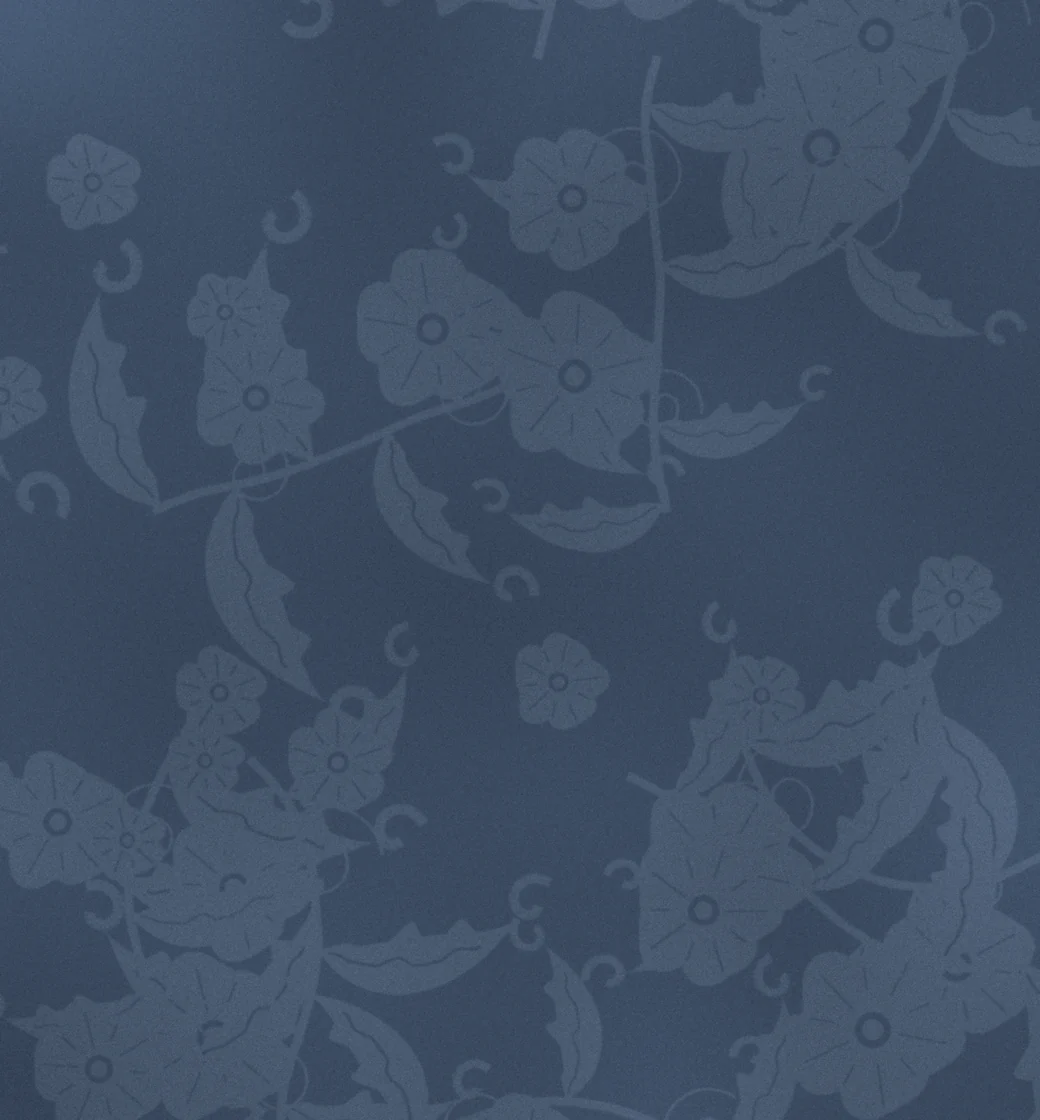
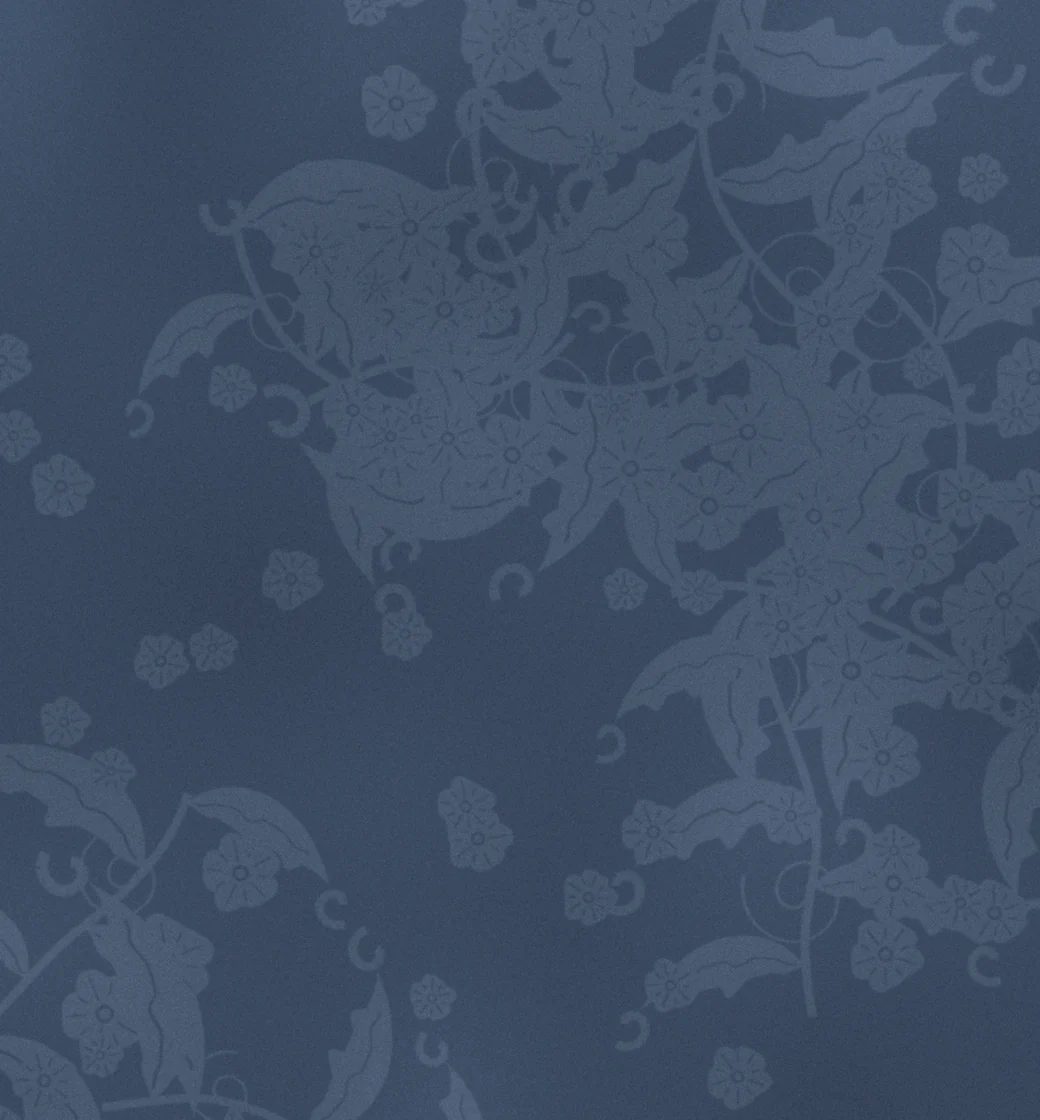
アルケルケ: ヒストリカルの彫りを鮮明に・盤線も彫り込み・擦れとざらつき、モダンの花を小さく多く
Claude-Session: https://claude.ai/code/session_01EiWRAYzNyyFMGgYmiTnvUY

diff --git a/alquerque/index.html b/alquerque/index.html
@@ -1211,14 +1211,14 @@ body.hb-on .hb .controls.hb-menu{display:flex!important}
   html:is([data-rule=dimy],[data-rule=telo],[data-rule=alq]) body .app > .rvbox{grid-area:bx;height:auto;max-height:40vh}
 }
 /* ---- Alquerque: historical (carved wood), modern (damask cloth), chalk (slate) — tools/gen_rugs.py */
-html[data-bd=carved]{--wimg:url(img/rug-carved.webp?v=4);--edge:#3a2414;--wdl:#2b190c}
-html[data-bd=damask]{--wimg:url(img/rug-damask.webp?v=4);--edge:#26323f;--wdl:#eef2f6}
+html[data-bd=carved]{--wimg:url(img/rug-carved.webp?v=5);--edge:#3a2414;--wdl:#2b190c}
+html[data-bd=damask]{--wimg:url(img/rug-damask.webp?v=5);--edge:#26323f;--wdl:#eef2f6}
 html[data-bd=chalk]{--wimg:url(img/rug-chalk.webp?v=1);--edge:#1c1d1e;--wdl:#ecebe6}
 html:is([data-bd=carved],[data-bd=damask],[data-bd=chalk]) .frame{background:var(--wimg) 0 0 / 100% 100%;border-radius:calc(var(--cell) * .1);
   box-shadow:0 calc(var(--cell) * .05) 0 var(--edge),0 40px 70px -26px rgba(0,0,0,.85)}
 html:is([data-bd=carved],[data-bd=damask],[data-bd=chalk]) .lines{filter:none}
-html[data-bd=carved] .lines .ln{stroke:#2b190c;stroke-width:.035;opacity:.9}
-html[data-bd=carved] .lines .pt{fill:#2b190c;opacity:.85;r:.06} html[data-bd=carved] .lines .pt.st{r:.08}
+html[data-bd=carved] .lines .ln{stroke:#2b190c;stroke-width:.035;opacity:0}
+html[data-bd=carved] .lines .pt{fill:#2b190c;opacity:0}
 html[data-bd=carved] .lines .num{fill:#2b190c;opacity:.75}
 html[data-bd=carved] .reserve{background:rgba(40,22,10,.35);box-shadow:inset 0 2px 5px rgba(0,0,0,.5),inset 0 -1px 0 rgba(255,230,190,.15)}
 html[data-bd=damask] .lines .ln{stroke:#eef2f6;stroke-width:.03;opacity:.92}
@@ -1612,7 +1612,7 @@ html[data-pcs=felt] .pdisc.p1{background:#e6dcc4} html[data-pcs=felt] .pdisc.p2{
 window.GAME = { id: 'alquerque', name: 'Alquerque', base: 'alq', rules: ['alq'], store: 'aicoding-alquerque', img: '../images/atlas/alquerque.webp',
   engine: '../fanorona/engine.js?v=fb2', bd: 'medallion', pcs: 'brass',
   bds: ['medallion', 'kilim', 'patch', 'chalk', 'carved', 'damask', 'abstract', 'dark'], pcss: ['brass', 'felt', 'wood', 'matte', 'flat', 'mono'],
-  bdImg: { carved: 'img/rug-carved.webp?v=4', damask: 'img/rug-damask.webp?v=4', chalk: 'img/rug-chalk.webp?v=1', medallion: 'img/rug-medallion.webp?v=7', kilim: 'img/rug-kilim.webp?v=6', patch: 'img/rug-patch.webp?v=6' },
+  bdImg: { carved: 'img/rug-carved.webp?v=5', damask: 'img/rug-damask.webp?v=5', chalk: 'img/rug-chalk.webp?v=1', medallion: 'img/rug-medallion.webp?v=7', kilim: 'img/rug-kilim.webp?v=6', patch: 'img/rug-patch.webp?v=6' },
   bdPal: { carved: ['#96704a', '#5e4026', '#2b190c'], damask: ['#3a4c60', '#26323f', '#eef2f6'], chalk: ['#2e3032', '#1c1d1e', '#ecebe6'], medallion: ['#962020', '#5a1c40', '#e2b254'], kilim: ['#cc282e', '#ec6e22', '#f4e8d2'], patch: ['#7a3a5a', '#2a608c', '#f4ead6'] },
   pcPal: { wood: [['#e0bc84', '#c49a64', '#7a5634'], ['#7a5232', '#5a3a20', '#2a180a']], matte: [['#ffffff', '#ecebe6', '#bdbab2'], ['#3a3a3c', '#1e1e20', '#0a0a0b']], brass: [['#fff0b8', '#d9ad4a', '#8a6420'], ['#3d5fb8', '#1d3478', '#0b1636']], felt: [['#f6eedc', '#e6dcc4', '#a89a80'], ['#3a5cae', '#1e3a84', '#0e1c48']] } };
 window.OL_VARIANTS = ['alq']; window.OL_DB_PREFIX = 'alq/';

diff --git a/alquerque/tools/gen_rugs.py b/alquerque/tools/gen_rugs.py
@@ -404,13 +404,22 @@ def wood_complex(rng, base, dark):
 def carve(a, m, depth=6.0, groove=(46, 28, 16)):
     """relief carving from a mask: the cut is sunk (height -depth), lit from the upper left — walls catch light on one side,
     shadow on the other, the floor is darker and rougher."""
-    h = -gaussian_filter(m, 1.4) * depth
+    h = -gaussian_filter(m, .75) * depth
     gy, gx = np.gradient(h)
-    lam = np.clip(1 + (-gx * -.6 + -gy * -.7) * .9, .35, 1.6)
-    floor = gaussian_filter(m, .6)
+    lam = np.clip(1 + (-gx * -.6 + -gy * -.7) * 1.1, .3, 1.75)
+    floor = gaussian_filter(m, .35)
     a = a * lam[..., None]
     a = a * (1 - .55 * floor[..., None]) + np.array(groove, float) * .55 * floor[..., None]
     return a
+
+
+def all_lines_old():
+    L = []
+    for r in range(5): L.append((P(0, r), P(4, r)))
+    for c in range(5): L.append((P(c, 0), P(c, 4)))
+    for (a, b) in (((0, 0), (4, 4)), ((0, 4), (4, 0)), ((0, 2), (2, 4)), ((2, 4), (4, 2)), ((4, 2), (2, 0)), ((2, 0), (0, 2))):
+        L.append((P(*a), P(*b)))
+    return L
 
 
 def carved(seed=5):
@@ -424,6 +433,12 @@ def carved(seed=5):
         for m in (m0, m0 + 7, m1 - 7, m1): dd.rectangle([m * SS, m * SS, (W - m) * SS, (H - m) * SS], outline=255, width=4 * SS)
         cx, cy = P(2, 2); r = S * .2
         dd.ellipse([(cx - r) * SS, (cy - r) * SS, (cx + r) * SS, (cy + r) * SS], outline=255, width=4 * SS)
+    def board(dd):   # the playing lines, cut as V-grooves
+        for (p0, p1) in all_lines_old():
+            dd.line(sc([p0, p1]), fill=255, width=6 * SS)
+        for c in range(5):
+            for r in range(5):
+                x, y = P(c, r); dd.ellipse([(x - 8) * SS, (y - 8) * SS, (x + 8) * SS, (y + 8) * SS], fill=255)
     def scrolls(dd):
         inner = bw - 22; c0 = m0 + bw / 2
         for horiz, L, fixeds in ((True, W, (c0, H - c0)), (False, H, (c0, W - c0))):
@@ -448,6 +463,12 @@ def carved(seed=5):
     a = carve(a, rec, 3.0, (120, 84, 52)) * 1.0
     a = carve(a, lmask(scrolls), 7.0)
     a = carve(a, lmask(rules), 5.0)
+    a = carve(a, lmask(board), 6.0)
+    wear = np.clip(fbm(rng, 60, 3) * .8 - .2, 0, 1) * np.clip(.5 + gaussian_filter(rng.standard_normal((H, W)), (1.2, 18)) * 1.2, 0, 1)
+    a = a * (1 - .6 * wear[..., None]) + np.array((220, 204, 178.)) * .6 * wear[..., None]   # white rubbed / dry patches
+    rough = gaussian_filter(rng.standard_normal((H, W)), .55); rough /= rough.std()
+    scr = np.clip(gaussian_filter(rng.standard_normal((H, W)), (.5, 6)) * 2.2 - 3.2, 0, 1)   # fine scratches along the grain
+    a *= (1 + .07 * rough + .2 * scr)[..., None]
     v = 1 - .3 * (((xx - W / 2) / (W / 2)) ** 2 + ((yy - H / 2) / (H / 2)) ** 2)
     return Image.fromarray(np.clip(a * v[..., None], 0, 255).astype(np.uint8))
 
@@ -505,11 +526,11 @@ def damask(seed=6):
                     sg = rng.choice([-1, 1]); a0 = ang + sg * 1.4; tr = S * rng.uniform(.25, .4)
                     sp = [(x + math.cos(a0) * tr * .2 + tr * (1 - u * .85) * math.cos(a0 + sg * u * 9), y + math.sin(a0) * tr * .2 + tr * (1 - u * .85) * math.sin(a0 + sg * u * 9)) for u in np.linspace(0, 1, 50)]
                     dd.line(sc(sp), fill=255, width=3 * SS)
-                if i % 19 == 13:
-                    flower5(dd, x + math.cos(ang + 1.6) * S * .5, y + math.sin(ang + 1.6) * S * .5, S * rng.uniform(.4, .6), rng.uniform(0, 6))
+                if i % 9 == 5:
+                    flower5(dd, x + math.cos(ang + 1.6) * S * .5, y + math.sin(ang + 1.6) * S * .5, S * rng.uniform(.2, .3), rng.uniform(0, 6))
             dd.line(sc(pts), fill=255, width=9 * SS, joint='curve')
-        for _ in range(10):
-            flower5(dd, rng.uniform(0, W), rng.uniform(0, H), S * rng.uniform(.22, .34), rng.uniform(0, 6))
+        for _ in range(46):
+            flower5(dd, rng.uniform(0, W), rng.uniform(0, H), S * rng.uniform(.13, .22), rng.uniform(0, 6))
     m = gaussian_filter(lmask(art), .8)
     a = base * (1 - .3 * m[..., None]) + hi * .3 * m[..., None]
     yy, xx = np.mgrid[0:H, 0:W].astype(np.float64)
